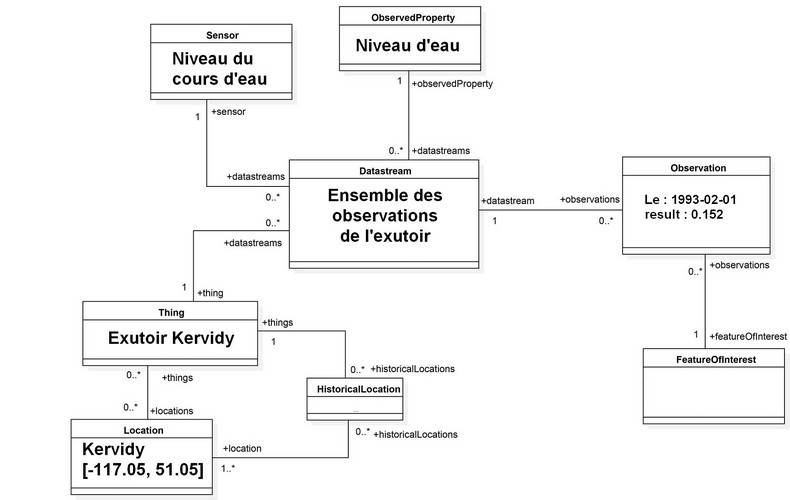
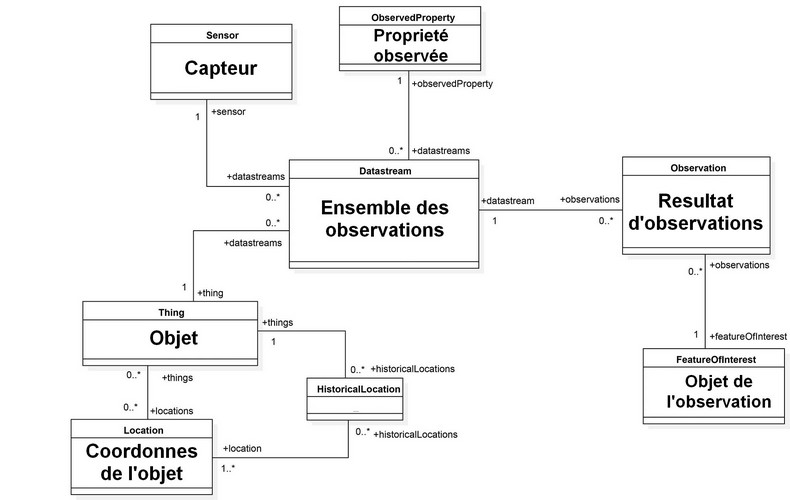
update docs

diff --git a/doc/agrhys.md b/doc/agrhys.md
@@ -2,6 +2,8 @@
 
 Afin de comprendre l'API SensorThings, il est essentiel de comprendre le modèle de données sous-jacent. Ce modèle comprend les classes suivantes:
 
+![entites](https://raw.githubusercontent.com/Mario-35/api-sensorthing/main/doc/assets/entities.jpg "entites")
+
 ## Thing :
 
     Une chose du monde réel, dans ce contexte généralement la chose où se trouve le capteur. Il peut s'agir d'une station de surveillance ou simplement de la pièce où le capteur a été installé.
@@ -30,7 +32,11 @@ Afin de comprendre l'API SensorThings, il est essentiel de comprendre le modèle
 
     Le FeatureOfInterest est l'objet sur lequel la mesure a été effectuée.
 
+Dans le cadre d'Agrhys on pourrai :
+
 ![entitées](https://raw.githubusercontent.com/Mario-35/api-sensorthing/main/doc/assets/agrhys.jpg "entitées")
+
+![entitées](https://raw.githubusercontent.com/Mario-35/api-sensorthing/main/doc/assets/agrhys_example.jpg "entitées")
 
 Un ajout a êté ajouté par rapport a la norme sensorthing est un feature of interest par defaut dans location, ceci permet d'utiliser ce feature of interest si observation ne l'indique pas.
 
@@ -46,7 +52,38 @@ Un ensemble d'observations (Observation) regroupées par la même propriété ob
 
 Une observation (Observation) est un événement effectué par un capteur (Sensor) qui produit une valeur d'une propriété observée (ObservedProperty) d'intérêt caractérisé (featureOfInterest).
 
-### 1. Creation du Thing.
+### 1. Creation du sensor.
+
+[Post http://sensorthings.geosas.fr/v1.0/Sensors](http://sensorthings.geosas.fr/Query?method=Post&entity=Sensors&datas=%7B%0A%20%20%20%20%20%20%20%20%20%20%20%20%20%20%20%20%22description%22%3A%20%22Mesure%20du%20niveau%2C%20et%20de%20la%20temp%C3%A9rature%20de%20l'eau%22%2C%0A%20%20%20%20%20%20%20%20%20%20%20%20%20%20%20%20%22name%22%3A%20%22OTT%20ecoLog%201000%22%2C%0A%20%20%20%20%20%20%20%20%20%20%20%20%20%20%20%20%22encodingType%22%3A%20%22application%2Fpdf%22%2C%0A%20%20%20%20%20%20%20%20%20%20%20%20%20%20%20%20%22metadata%22%3A%20%22https%3A%2F%2Fwww.ott.com%2Ffr-fr%2Fproduits%2Fle-niveau-deau-72%2Fott-ecolog-1000-2450%2FproductAction%2FoutputAsPdf%2F%22%0A%20%20%20%20%20%20%20%20%20%20%20%20%7D)
+
+```json
+{
+    "description": "Mesure du niveau, et de la température de l'eau",
+    "name": "OTT ecoLog 1000",
+    "encodingType": "application/pdf",
+    "metadata": "https://www.ott.com/fr-fr/produits/le-niveau-deau-72/ott-ecolog-1000-2450/productAction/outputAsPdf/"
+}
+```
+
+#### Response
+
+```json
+{
+    "@iot.id": "1",
+    "@iot.selfLink": http://sensorthings.geosas.fr/v1.0/Sensors(7),
+    "description": "Mesure du niveau, et de la température de l'eau",
+    "encodingType": "application/pdf",
+    "metadata": "https://www.ott.com/fr-fr/produits/le-niveau-deau-72/ott-ecolog-1000-2450/productAction/outputAsPdf/",
+    "name": "OTT ecoLog 1000",
+    "properties": null,
+    "Datastreams@iot.navigationLink": "http://sensorthings.geosas.fr/v1.0/Sensors(1)/Datastreams"
+
+}
+```
+
+On releve l'id du sensor créer
+
+### 2. Creation du Thing.
 
 La creation de lu "Thing", de sa "location" et des 2 "datastreams" dans la meme requette, bien evidement on pourrait le faire les une à la suite des autres.
 
@@ -55,7 +92,7 @@ La creation de lu "Thing", de sa "location" et des 2 "datastreams" dans la meme 
 
 #### Request
 
-[Post http://sensorthings.geosas.fr/v1.0/Things](http://sensorthings.geosas.fr/Query?method=Post&entity=Things&datas=%7B%0A%20%20%20%20%22description%22%3A%20%22Exutoir%20Kervidy%22%2C%0A%20%20%20%20%22name%22%3A%20%22Exutoir%20Kervidy%22%2C%0A%20%20%20%20%22properties%22%3A%20%7B%0A%20%20%20%20%20%20%20%20%22hydras%22%3A%20%7B%0A%20%20%20%20%20%20%20%20%20%20%20%20%22domaine%22%3A%20%22C_Naizin%22%2C%0A%20%20%20%20%20%20%20%20%20%20%20%20%22region%22%3A%20%22C_Naizin__03%22%2C%0A%20%20%20%20%20%20%20%20%20%20%20%20%22station%22%3A%20%22KERVIDY_C_EXU%22%2C%0A%20%20%20%20%20%20%20%20%20%20%20%20%22capteur%22%3A%20%220102%22%0A%20%20%20%20%20%20%20%20%7D%0A%20%20%20%20%7D%2C%0A%20%20%20%20%22Locations%22%3A%20%7B%0A%20%20%20%20%20%20%20%20%22description%22%3A%20%22Kervidy%22%2C%0A%20%20%20%20%20%20%20%20%22name%22%3A%20%22Kervidy%22%2C%0A%20%20%20%20%20%20%20%20%22location%22%3A%20%7B%0A%20%20%20%20%20%20%20%20%20%20%20%20%22type%22%3A%20%22Point%22%2C%0A%20%20%20%20%20%20%20%20%20%20%20%20%22coordinates%22%3A%20%5B-117.05%2C%2051.05%5D%0A%20%20%20%20%20%20%20%20%7D%2C%0A%20%20%20%20%20%20%20%20%22encodingType%22%3A%20%22application%2Fvnd.geo%2Bjson%22%2C%0A%20%20%20%20%20%20%20%20%22FeatureOfInterest%22%3A%20%7B%0A%20%20%20%20%20%20%20%20%20%20%20%20%22name%22%3A%20%22Capteur%20Kervidy%22%2C%0A%20%20%20%20%20%20%20%20%20%20%20%20%22description%22%3A%20%22Niveau%20d'eau%20du%20capteur%20kervidy%22%2C%0A%20%20%20%20%20%20%20%20%20%20%20%20%22encodingType%22%3A%20%22application%2Fvnd.geo%2Bjson%22%2C%0A%20%20%20%20%20%20%20%20%20%20%20%20%22feature%22%3A%20%7B%0A%20%20%20%20%20%20%20%20%20%20%20%20%20%20%20%20%22type%22%3A%20%22Point%22%2C%0A%20%20%20%20%20%20%20%20%20%20%20%20%20%20%20%20%22coordinates%22%3A%20%5B-114.133%2C%2051.08%5D%0A%20%20%20%20%20%20%20%20%20%20%20%20%7D%0A%20%20%20%20%20%20%20%20%7D%0A%20%20%20%20%7D%2C%0A%20%20%20%20%22Datastreams%22%3A%20%5B%0A%20%20%20%20%20%20%20%20%7B%0A%20%20%20%20%20%20%20%20%20%20%20%20%22name%22%3A%20%22kervidy%20hauteur%20d'eau%22%2C%0A%20%20%20%20%20%20%20%20%20%20%20%20%22description%22%3A%20%22Niveau%20d'eau%20de%20kervidy%22%2C%0A%20%20%20%20%20%20%20%20%20%20%20%20%22unitOfMeasurement%22%3A%20%7B%0A%20%20%20%20%20%20%20%20%20%20%20%20%20%20%20%20%22name%22%3A%20%22Hauteur%22%2C%0A%20%20%20%20%20%20%20%20%20%20%20%20%20%20%20%20%22symbol%22%3A%20%22m%22%0A%20%20%20%20%20%20%20%20%20%20%20%20%7D%2C%0A%20%20%20%20%20%20%20%20%20%20%20%20%22ObservedProperty%22%3A%20%7B%0A%20%20%20%20%20%20%20%20%20%20%20%20%20%20%20%20%22name%22%3A%20%22Niveau%20d'eau%22%2C%0A%20%20%20%20%20%20%20%20%20%20%20%20%20%20%20%20%22description%22%3A%20%22valeur%20en%20m%C3%A8tre%20de%20la%20hauteur%20de%20l'eau%22%0A%20%20%20%20%20%20%20%20%20%20%20%20%7D%2C%0A%20%20%20%20%20%20%20%20%20%20%20%20%22Sensor%22%3A%20%7B%0A%20%20%20%20%20%20%20%20%20%20%20%20%20%20%20%20%22description%22%3A%20%22Niveau%20du%20cours%20d'eau%22%2C%0A%20%20%20%20%20%20%20%20%20%20%20%20%20%20%20%20%22name%22%3A%20%22sensor%20name%201%22%2C%0A%20%20%20%20%20%20%20%20%20%20%20%20%20%20%20%20%22encodingType%22%3A%20%22application%2Fpdf%22%2C%0A%20%20%20%20%20%20%20%20%20%20%20%20%20%20%20%20%22metadata%22%3A%20%22hauteur%20d'eau%22%0A%20%20%20%20%20%20%20%20%20%20%20%20%7D%0A%20%20%20%20%20%20%20%20%7D%2C%0A%20%20%20%20%20%20%20%20%7B%0A%20%20%20%20%20%20%20%20%20%20%20%20%22name%22%3A%20%22kervidy%20temperature%20d'eau%22%2C%0A%20%20%20%20%20%20%20%20%20%20%20%20%22description%22%3A%20%22temperature%20de%20kervidy%22%2C%0A%20%20%20%20%20%20%20%20%20%20%20%20%22unitOfMeasurement%22%3A%20%7B%0A%20%20%20%20%20%20%20%20%20%20%20%20%20%20%20%20%22name%22%3A%20%22temperature%22%2C%0A%20%20%20%20%20%20%20%20%20%20%20%20%20%20%20%20%22symbol%22%3A%20%22C%22%0A%20%20%20%20%20%20%20%20%20%20%20%20%7D%2C%0A%20%20%20%20%20%20%20%20%20%20%20%20%22ObservedProperty%22%3A%20%7B%0A%20%20%20%20%20%20%20%20%20%20%20%20%20%20%20%20%22name%22%3A%20%22temperature%22%2C%0A%20%20%20%20%20%20%20%20%20%20%20%20%20%20%20%20%22description%22%3A%20%22temperature%20en%20centigrade%20de%20l'eau%22%0A%20%20%20%20%20%20%20%20%20%20%20%20%7D%2C%0A%20%20%20%20%20%20%20%20%20%20%20%20%22Sensor%22%3A%20%7B%0A%20%20%20%20%20%20%20%20%20%20%20%20%20%20%20%20%22description%22%3A%20%22Temperature%20du%20cours%20d'eau%22%2C%0A%20%20%20%20%20%20%20%20%20%20%20%20%20%20%20%20%22name%22%3A%20%22sensor%20name%201%22%2C%0A%20%20%20%20%20%20%20%20%20%20%20%20%20%20%20%20%22encodingType%22%3A%20%22application%2Fpdf%22%2C%0A%20%20%20%20%20%20%20%20%20%20%20%20%20%20%20%20%22metadata%22%3A%20%22temperature%20d'eau%22%0A%20%20%20%20%20%20%20%20%20%20%20%20%7D%0A%20%20%20%20%20%20%20%20%7D%0A%20%20%20%20%5D%0A%7D)
+[Post http://sensorthings.geosas.fr/v1.0/Things](http://sensorthings.geosas.fr/Query?method=Post&entity=Things&datas=%7B%0A%20%20%20%20%22description%22%3A%20%22Exutoir%20Kervidy%22%2C%0A%20%20%20%20%22name%22%3A%20%22Exutoir%20Kervidy%22%2C%0A%20%20%20%20%22properties%22%3A%20%7B%0A%20%20%20%20%20%20%20%20%22hydras%22%3A%20%7B%0A%20%20%20%20%20%20%20%20%20%20%20%20%22domaine%22%3A%20%22C_Naizin%22%2C%0A%20%20%20%20%20%20%20%20%20%20%20%20%22region%22%3A%20%22C_Naizin__03%22%2C%0A%20%20%20%20%20%20%20%20%20%20%20%20%22station%22%3A%20%22KERVIDY_C_EXU%22%2C%0A%20%20%20%20%20%20%20%20%20%20%20%20%22capteur%22%3A%20%220102%22%0A%20%20%20%20%20%20%20%20%7D%0A%20%20%20%20%7D%2C%0A%20%20%20%20%22Locations%22%3A%20%7B%0A%20%20%20%20%20%20%20%20%22description%22%3A%20%22Kervidy%22%2C%0A%20%20%20%20%20%20%20%20%22name%22%3A%20%22Kervidy%22%2C%0A%20%20%20%20%20%20%20%20%22location%22%3A%20%7B%0A%20%20%20%20%20%20%20%20%20%20%20%20%22type%22%3A%20%22Point%22%2C%0A%20%20%20%20%20%20%20%20%20%20%20%20%22coordinates%22%3A%20%5B-117.05%2C%2051.05%5D%0A%20%20%20%20%20%20%20%20%7D%2C%0A%20%20%20%20%20%20%20%20%22encodingType%22%3A%20%22application%2Fvnd.geo%2Bjson%22%2C%0A%20%20%20%20%20%20%20%20%22FeatureOfInterest%22%3A%20%7B%0A%20%20%20%20%20%20%20%20%20%20%20%20%22name%22%3A%20%22Cours%20d'eau%20Kervidy%22%2C%0A%20%20%20%20%20%20%20%20%20%20%20%20%22description%22%3A%20%22Analyse%20du%20cours%20d'eau%20de%20Kervidy%22%2C%0A%20%20%20%20%20%20%20%20%20%20%20%20%22encodingType%22%3A%20%22application%2Fvnd.geo%2Bjson%22%2C%0A%20%20%20%20%20%20%20%20%20%20%20%20%22feature%22%3A%20%7B%0A%20%20%20%20%20%20%20%20%20%20%20%20%20%20%20%20%22type%22%3A%20%22Point%22%2C%0A%20%20%20%20%20%20%20%20%20%20%20%20%20%20%20%20%22coordinates%22%3A%20%5B-114.133%2C%2051.08%5D%0A%20%20%20%20%20%20%20%20%20%20%20%20%7D%0A%20%20%20%20%20%20%20%20%7D%0A%20%20%20%20%7D%2C%0A%20%20%20%20%22Datastreams%22%3A%20%5B%0A%20%20%20%20%20%20%20%20%7B%0A%20%20%20%20%20%20%20%20%20%20%20%20%22name%22%3A%20%22kervidy%20hauteur%20d'eau%22%2C%0A%20%20%20%20%20%20%20%20%20%20%20%20%22description%22%3A%20%22Niveau%20d'eau%20de%20kervidy%22%2C%0A%20%20%20%20%20%20%20%20%20%20%20%20%22unitOfMeasurement%22%3A%20%7B%0A%20%20%20%20%20%20%20%20%20%20%20%20%20%20%20%20%22name%22%3A%20%22Hauteur%22%2C%0A%20%20%20%20%20%20%20%20%20%20%20%20%20%20%20%20%22symbol%22%3A%20%22m%22%0A%20%20%20%20%20%20%20%20%20%20%20%20%7D%2C%0A%20%20%20%20%20%20%20%20%20%20%20%20%22ObservedProperty%22%3A%20%7B%0A%20%20%20%20%20%20%20%20%20%20%20%20%20%20%20%20%22name%22%3A%20%22Niveau%20d'eau%22%2C%0A%20%20%20%20%20%20%20%20%20%20%20%20%20%20%20%20%22description%22%3A%20%22valeur%20en%20m%C3%A8tre%20de%20la%20hauteur%20de%20l'eau%22%0A%20%20%20%20%20%20%20%20%20%20%20%20%7D%2C%0A%20%20%20%20%20%20%20%20%20%20%20%20%22Sensor%22%3A%20%7B%20%22%40iot.id%22%3A%201%20%7D%0A%20%20%20%20%20%20%20%20%7D%2C%0A%20%20%20%20%20%20%20%20%7B%0A%20%20%20%20%20%20%20%20%20%20%20%20%22name%22%3A%20%22kervidy%20temperature%20d'eau%22%2C%0A%20%20%20%20%20%20%20%20%20%20%20%20%22description%22%3A%20%22temperature%20de%20kervidy%22%2C%0A%20%20%20%20%20%20%20%20%20%20%20%20%22unitOfMeasurement%22%3A%20%7B%0A%20%20%20%20%20%20%20%20%20%20%20%20%20%20%20%20%22name%22%3A%20%22temperature%22%2C%0A%20%20%20%20%20%20%20%20%20%20%20%20%20%20%20%20%22symbol%22%3A%20%22C%22%0A%20%20%20%20%20%20%20%20%20%20%20%20%7D%2C%0A%20%20%20%20%20%20%20%20%20%20%20%20%22ObservedProperty%22%3A%20%7B%0A%20%20%20%20%20%20%20%20%20%20%20%20%20%20%20%20%22name%22%3A%20%22temperature%22%2C%0A%20%20%20%20%20%20%20%20%20%20%20%20%20%20%20%20%22description%22%3A%20%22temperature%20en%20centigrade%20de%20l'eau%22%0A%20%20%20%20%20%20%20%20%20%20%20%20%7D%2C%0A%20%20%20%20%20%20%20%20%20%20%20%20%22Sensor%22%3A%20%7B%20%22%40iot.id%22%3A%201%20%7D%0A%20%20%20%20%20%20%20%20%7D%0A%20%20%20%20%5D%0A%7D)
 
 ```json
 {
@@ -78,8 +115,8 @@ La creation de lu "Thing", de sa "location" et des 2 "datastreams" dans la meme 
         },
         "encodingType": "application/vnd.geo+json",
         "FeatureOfInterest": {
-            "name": "Capteur Kervidy",
-            "description": "Niveau d'eau du capteur kervidy",
+            "name": "Cours d'eau Kervidy",
+            "description": "Analyse du cours d'eau de Kervidy",
             "encodingType": "application/vnd.geo+json",
             "feature": {
                 "type": "Point",
@@ -99,12 +136,7 @@ La creation de lu "Thing", de sa "location" et des 2 "datastreams" dans la meme 
                 "name": "Niveau d'eau",
                 "description": "valeur en mètre de la hauteur de l'eau"
             },
-            "Sensor": {
-                "description": "Niveau du cours d'eau",
-                "name": "sensor name 1",
-                "encodingType": "application/pdf",
-                "metadata": "hauteur d'eau"
-            }
+            "Sensor": { "@iot.id": 1 }
         },
         {
             "name": "kervidy temperature d'eau",
@@ -117,12 +149,7 @@ La creation de lu "Thing", de sa "location" et des 2 "datastreams" dans la meme 
                 "name": "temperature",
                 "description": "temperature en centigrade de l'eau"
             },
-            "Sensor": {
-                "description": "Temperature du cours d'eau",
-                "name": "sensor name 1",
-                "encodingType": "application/pdf",
-                "metadata": "temperature d'eau"
-            }
+            "Sensor": { "@iot.id": 1 }
         }
     ]
 }
